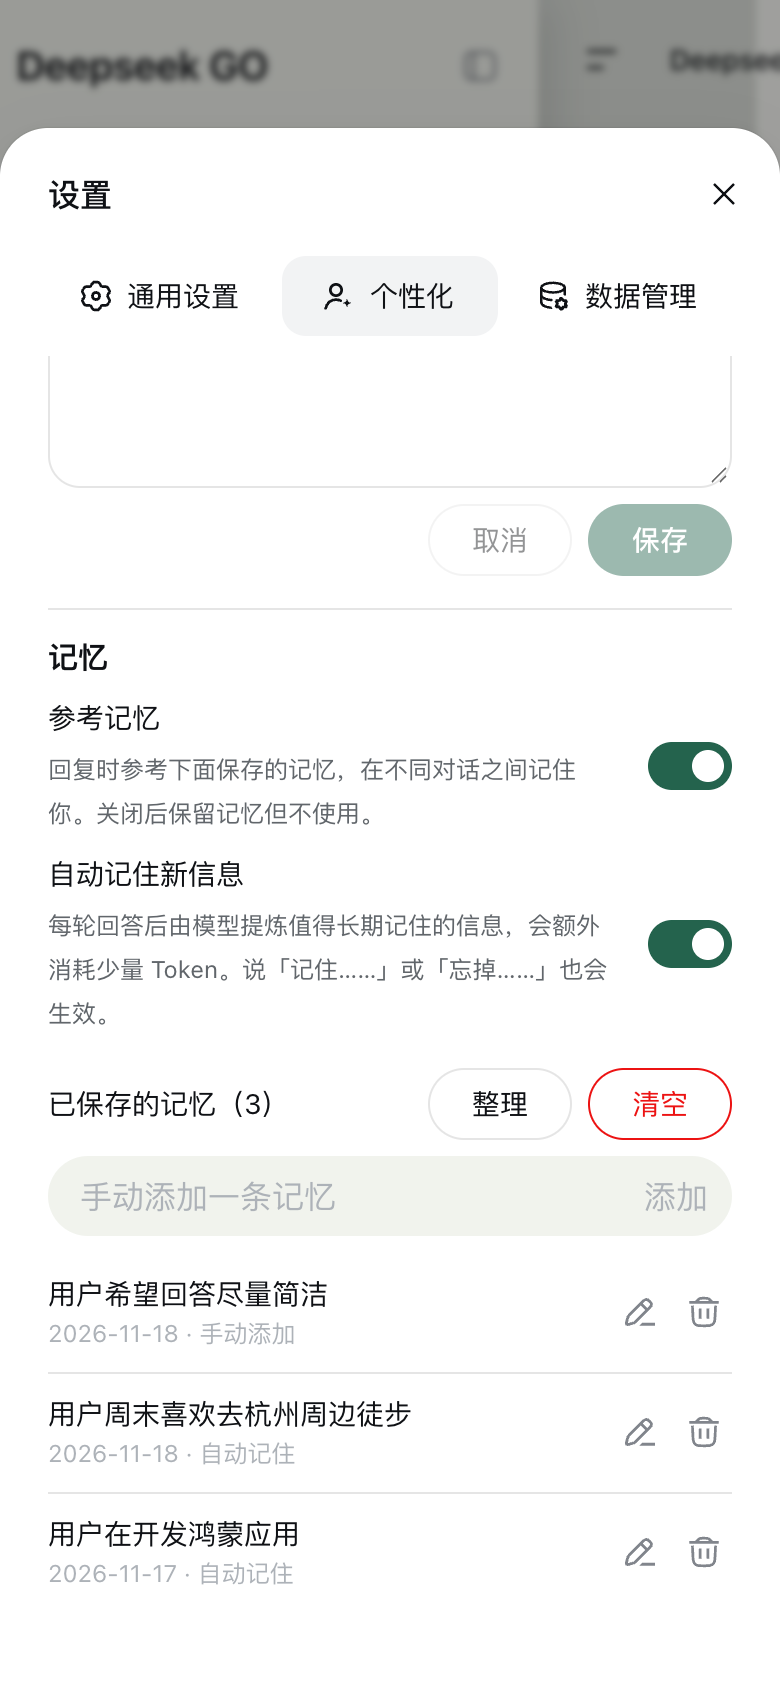
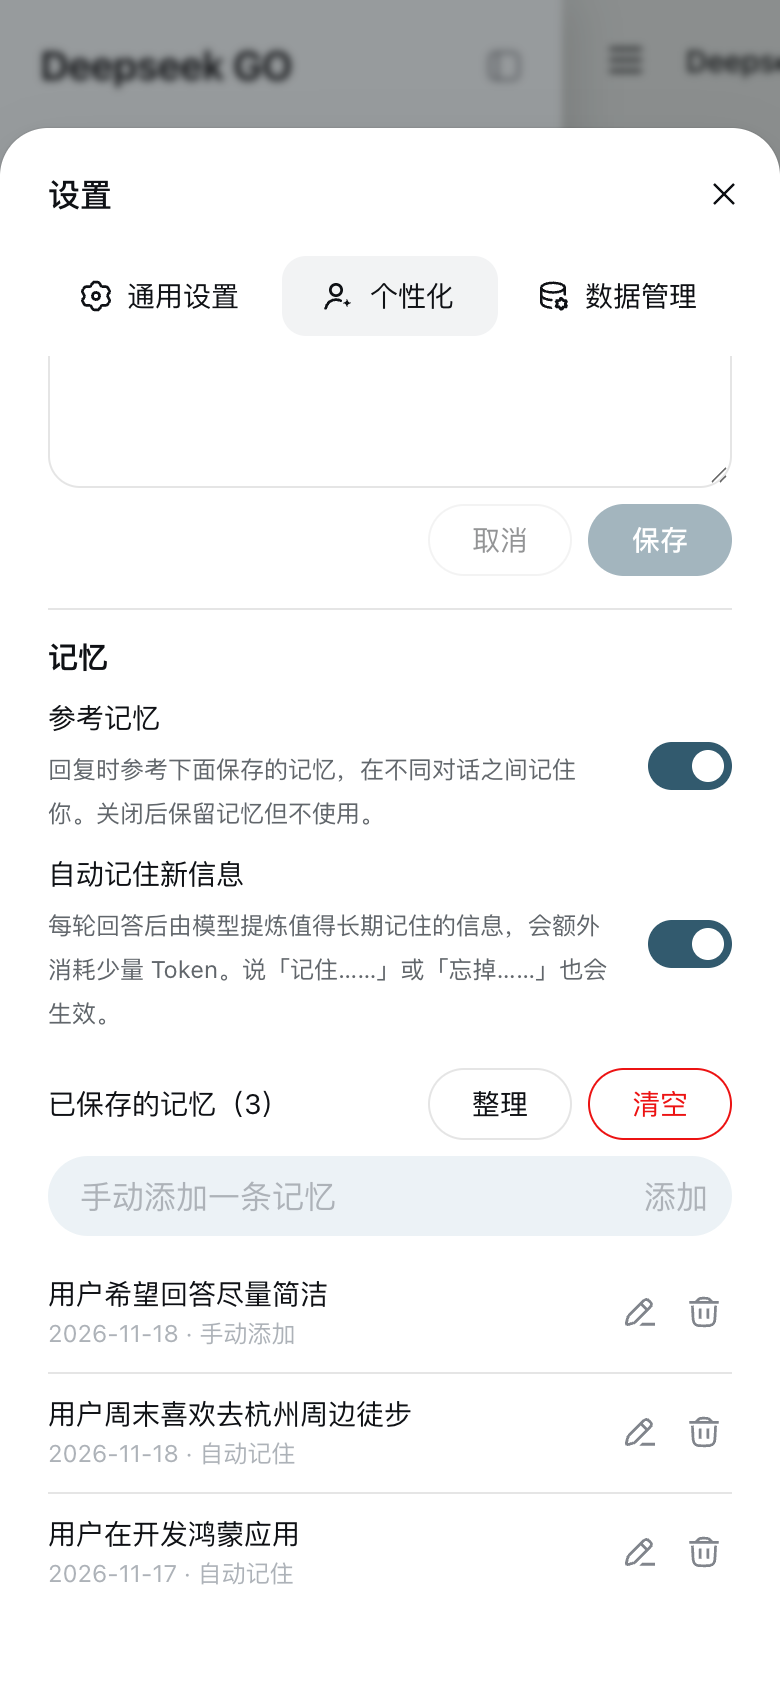
Deepseek GO 1.3.1 调整默认配色、深色背景、位置信息与设置分隔
- 默认主题色改为 #66ccff，松绿保留为预设；强调色始终由主题色派生
- 浅色和深色背景、深色输入区色调从主题色派生，原生底色、启动页和顶栏文字改为中性色
- 位置信息先选国家或地区（可不设置），选中国时再选省市，并补充用途说明
- 沉浸光感与回答完成通知开关沿用设置单元格的间距和分隔线
- README 截图按新配色重新生成

已通过 pnpm type/lint/build:harmony、ArkTS Release 编译和浏览器回归；真机深色观感待验证。

diff --git a/chat-demo-main/src/components/settings/SettingsDialog.tsx b/chat-demo-main/src/components/settings/SettingsDialog.tsx
@@ -26,7 +26,6 @@ import {
 } from '../../services/harmony.js'
 import { regionCodes, getRegionName, provinces } from '../../services/location.js'
 import {
-  isChineseBrowser,
   setImmersiveLight,
   setReplyNotify,
   setLocale,
@@ -253,11 +252,26 @@ const LocationSetting = () => {
   return (
     <SettingCell
       label={t('settingsLocation')}
+      description={t('settingsLocationDescription')}
       status={null}
       className={styles.locationCell}
       action={
         <div className={styles.locationSelectors}>
-          {isChineseBrowser() ? (
+          {/* 先选国家或地区，海外用户只需这一级；选中国时再细化到省市。 */}
+          <Select
+            ariaLabel={t('settingsLocationRegion')}
+            className={styles.regionSelect}
+            value={location?.region ?? ''}
+            placeholder={t('settingsLocationRegion')}
+            options={[
+              { value: '', label: t('settingsLocationNone') },
+              ...regionCodes
+                .map((code) => ({ value: code, label: getRegionName(code, locale) }))
+                .sort((a, b) => a.label.localeCompare(b.label, locale)),
+            ]}
+            onChange={(value) => setLocation(value ? { region: value } : null)}
+          />
+          {location?.region === 'CN' ? (
             <>
               <Select
                 ariaLabel={t('settingsLocationProvince')}
@@ -287,18 +301,7 @@ const LocationSetting = () => {
                 }}
               />
             </>
-          ) : (
-            <Select
-              ariaLabel={t('settingsLocationRegion')}
-              className={styles.regionSelect}
-              value={location?.region ?? ''}
-              placeholder={t('settingsLocationRegion')}
-              options={regionCodes
-                .map((code) => ({ value: code, label: getRegionName(code, locale) }))
-                .sort((a, b) => a.label.localeCompare(b.label, locale))}
-              onChange={(value) => setLocation({ region: value })}
-            />
-          )}
+          ) : null}
         </div>
       }
     />
@@ -434,7 +437,7 @@ const ImmersiveLightSetting = () => {
   const descriptionId = useId()
   const immersiveLight = useSettings((state) => state.immersiveLight)
   return (
-    <label className={styles.immersiveLight}>
+    <label className={clsx(styles.cell, styles.immersiveLight)}>
       <span>
         {t('immersiveLightTitle')}
         <span id={descriptionId} className={styles.immersiveLightDescription}>
@@ -460,7 +463,7 @@ const ReplyNotifySetting = () => {
   const descriptionId = useId()
   const replyNotify = useSettings((state) => state.replyNotify)
   return (
-    <label className={styles.immersiveLight}>
+    <label className={clsx(styles.cell, styles.immersiveLight)}>
       <span>
         {t('replyNotifyTitle')}
         <span id={descriptionId} className={styles.immersiveLightDescription}>

diff --git a/chat-demo-main/src/app/harmony.css b/chat-demo-main/src/app/harmony.css
@@ -63,11 +63,16 @@
   }
 
   .harmony-app[data-custom-accent][data-ds-dark-theme] {
-    --composer-tint: color-mix(in srgb, var(--user-accent) 17%, rgba(38, 47, 43, 0.66));
+    --composer-tint: color-mix(in srgb, var(--user-accent) 14%, rgba(36, 36, 36, 0.66));
+    --composer-highlight: color-mix(in srgb, var(--user-accent) 25%, rgba(255, 255, 255, 0.1));
+    --composer-rim: color-mix(in srgb, var(--user-accent) 25%, rgba(255, 255, 255, 0.14));
   }
 }
 
+/* 背景和浅色中性色只带一点主题色，深色模式不再固定偏绿 */
 .harmony-app[data-custom-accent] {
+  --dsw-static-neutral-bluish-50: color-mix(in srgb, var(--user-accent) 5%, #f3f4f5);
+  --dsw-alias-bg-base: color-mix(in srgb, var(--user-accent) 3%, #fafafa);
   --dsw-static-blue-50: color-mix(in srgb, var(--user-accent) 10%, white);
   --dsw-static-blue-100: color-mix(in srgb, var(--user-accent) 18%, white);
   --dsw-static-blue-300: color-mix(in srgb, var(--user-accent) 45%, white);
@@ -77,6 +82,8 @@
 }
 
 .harmony-app[data-custom-accent][data-ds-dark-theme] {
+  --dsw-static-neutral-bluish-50: color-mix(in srgb, var(--user-accent) 4%, #f2f2f2);
+  --dsw-alias-bg-base: color-mix(in srgb, var(--user-accent) 5%, #141414);
   --dsw-static-blue-400: color-mix(in srgb, var(--user-accent) 48%, white);
   --dsw-static-blue-600: color-mix(in srgb, var(--user-accent) 60%, #303030);
   --dsw-static-blue-800: color-mix(in srgb, var(--user-accent) 22%, #1b1b1b);

diff --git a/chat-demo-main/src/services/settings.ts b/chat-demo-main/src/services/settings.ts
@@ -74,15 +74,8 @@ const initialLocale = (): Locale => {
 
 const initialLocation = (): UserLocation | null => {
   try {
-    const location = normalizeLocation(JSON.parse(read(KEYS.location) ?? 'null'))
-    if (!location) {
-      return null
-    }
-    return isChineseBrowser()
-      ? location.region === 'CN' && location.province
-        ? location
-        : null
-      : { region: location.region }
+    // 任何语言的用户都可以选择任意国家或地区，只有中国需要细化到省市。
+    return normalizeLocation(JSON.parse(read(KEYS.location) ?? 'null'))
   } catch {
     return null
   }
@@ -93,6 +86,9 @@ const initialThemePreference = (): ThemePreference => {
   const saved = read(KEYS.themePreference)
   return saved === 'light' || saved === 'dark' ? saved : 'system'
 }
+
+/** 鸿蒙版默认主题色；未选择过主题色时使用 */
+export const DEFAULT_ACCENT = '#66ccff'
 
 export const normalizeAccentColor = (value: string): string | null => {
   const color = value.trim().replace(/^#/, '')

diff --git a/chat-demo-main/src/app/theme.ts b/chat-demo-main/src/app/theme.ts
@@ -1,5 +1,5 @@
 import { useSyncExternalStore } from 'react'
-import { useSettings, type ThemePreference } from '../services/settings.js'
+import { DEFAULT_ACCENT, useSettings, type ThemePreference } from '../services/settings.js'
 
 export type Theme = 'light' | 'dark'
 
@@ -60,14 +60,11 @@ const syncTheme = () => {
   }
 }
 
+/** 鸿蒙版的强调色、浅色和深色背景都从主题色派生；未选择时使用默认的 #66ccff。 */
 const syncAccent = (color: string | null) => {
   const body = document.body
-  body.toggleAttribute('data-custom-accent', color !== null)
-  if (color) {
-    body.style.setProperty('--user-accent', color)
-  } else {
-    body.style.removeProperty('--user-accent')
-  }
+  body.toggleAttribute('data-custom-accent', true)
+  body.style.setProperty('--user-accent', color ?? DEFAULT_ACCENT)
 }
 
 /** 首屏渲染前同步应用一次，之后随主题设置与系统深浅色变化更新 */

diff --git a/chat-demo-main/src/i18n/en.ts b/chat-demo-main/src/i18n/en.ts
@@ -94,6 +94,9 @@ export const en = {
   settingsTtsVoiceStella: 'Stella (female)',
   settingsTtsVoiceTide: 'Tide (male)',
   settingsLocation: 'Location',
+  settingsLocationNone: 'Not set',
+  settingsLocationDescription:
+    'Tells DeepSeek your country or region with each message, for weather, travel, and local questions. Only the place name is sent; GPS isn’t used.',
   settingsLocationProvince: 'Select province/region',
   settingsLocationCity: 'Select city',
   settingsLocationRegion: 'Select country or region',
@@ -104,7 +107,8 @@ export const en = {
   avatarMenuSettingsDialogThemeSelectDarkOption: 'Dark',
   accentTitle: 'Accent color',
   accentPresets: 'Accent presets',
-  accentDefault: 'Default pine green',
+  accentDefault: 'Default sky blue',
+  accentGreen: 'Pine green',
   accentBlue: 'Ocean blue',
   accentPurple: 'Berry purple',
   accentCoral: 'Coral',

diff --git a/chat-demo-main/src/i18n/zh.ts b/chat-demo-main/src/i18n/zh.ts
@@ -89,6 +89,9 @@ export const zh = {
   settingsTtsVoiceStella: '海星（女声）',
   settingsTtsVoiceTide: '暗潮（男声）',
   settingsLocation: '位置信息',
+  settingsLocationNone: '不设置',
+  settingsLocationDescription:
+    '随消息告诉 DeepSeek 你所在的国家或地区，用于天气、出行和本地推荐等问题。只发送地名，不使用定位。',
   settingsLocationProvince: '请选择省份/地区',
   settingsLocationCity: '请选择市',
   settingsLocationRegion: '请选择国家或地区',
@@ -99,7 +102,8 @@ export const zh = {
   avatarMenuSettingsDialogThemeSelectDarkOption: '深色',
   accentTitle: '主题颜色',
   accentPresets: '预设主题颜色',
-  accentDefault: '默认松绿',
+  accentDefault: '默认天蓝',
+  accentGreen: '松绿',
   accentBlue: '海蓝',
   accentPurple: '莓紫',
   accentCoral: '珊瑚红',

diff --git a/chat-demo-main/src/components/settings/AccentSetting.tsx b/chat-demo-main/src/components/settings/AccentSetting.tsx
@@ -1,13 +1,19 @@
 import { useState } from 'react'
 import { useTranslate } from '../../i18n/index.js'
-import { normalizeAccentColor, setAccentColor, useSettings } from '../../services/settings.js'
+import {
+  DEFAULT_ACCENT,
+  normalizeAccentColor,
+  setAccentColor,
+  useSettings,
+} from '../../services/settings.js'
 import { Button } from '../base/Button.js'
 import styles from './AccentSetting.module.css'
 
-const defaultColor = '#24634d'
-const presets = [null, '#2869bc', '#7449ad', '#ad4836', '#647584'] as const
+const defaultColor = DEFAULT_ACCENT
+const presets = [null, '#24634d', '#2869bc', '#7449ad', '#ad4836', '#647584'] as const
 const labels = [
   'accentDefault',
+  'accentGreen',
   'accentBlue',
   'accentPurple',
   'accentCoral',

diff --git a/chat-demo-main/src/components/settings/Settings.module.css b/chat-demo-main/src/components/settings/Settings.module.css
@@ -119,7 +119,7 @@
 
 .locationSelectors {
   display: flex;
-  flex-wrap: nowrap;
+  flex-wrap: wrap;
   align-items: flex-start;
   justify-content: flex-end;
   gap: 16px;
@@ -144,6 +144,11 @@
 
 .regionSelect {
   max-width: min(285px, 100%);
+}
+
+/* 开关行沿用设置单元格的间距和分隔线，与相邻设置项分开 */
+.cell.immersiveLight {
+  padding: 12px 0;
 }
 
 .theme {
@@ -409,6 +414,11 @@
   .locationSelectors {
     width: 100%;
     gap: 12px;
+  }
+
+  .regionSelect {
+    flex: 1 1 100%;
+    max-width: none;
   }
 
   .provinceSelect,

diff --git a/HANDOFF.md b/HANDOFF.md
@@ -2,7 +2,7 @@
 
 ## 工作区
 
-- 当前源码为 1.3.0，版本代码为 `1000010`，新增无痕对话、后台生成与完成通知，并做了返回手势、系统字体、2in1 键鼠等适配，见「1.3.0 无痕对话与鸿蒙适配」。1.2.1 修复宽屏居中和侧栏上下断开，见「1.2.1 宽屏修复」。1.1.0 新增系统语音输入、本机识字、接收系统分享和经系统文件管理器导出，见下方「鸿蒙独有功能」；1.2.0 新增自定义指令和跨对话记忆，见「个性化与记忆」。接手时用 `git status --short` 和 `git log -1 --oneline` 查看源码状态。
+- 当前源码为 1.3.1，版本代码为 `1000011`，调整默认配色、深色背景、位置信息和设置分隔，见「1.3.1 配色与设置」。1.3.0 版本代码为 `1000010`，新增无痕对话、后台生成与完成通知，并做了返回手势、系统字体、2in1 键鼠等适配，见「1.3.0 无痕对话与鸿蒙适配」。1.2.1 修复宽屏居中和侧栏上下断开，见「1.2.1 宽屏修复」。1.1.0 新增系统语音输入、本机识字、接收系统分享和经系统文件管理器导出，见下方「鸿蒙独有功能」；1.2.0 新增自定义指令和跨对话记忆，见「个性化与记忆」。接手时用 `git status --short` 和 `git log -1 --oneline` 查看源码状态。
 - 最近一次交付是 `HAPS/Deepseek-GO-1.3.0-unsigned.hap`，版本代码为 `1000010`，已发布到 GitHub Releases 的 `v1.3.0`。只有用户明确要求时才打包当前源码版本。
 - 远端仓库是 `origin`（GitHub `APXS114514/DeepSeekGo-Harmony`，分支 `main`）。推送身份和 SSH 配置见 [`AGENTS.md`](AGENTS.md#版本与提交)。仓库只收源码、配置、文档和图标。依赖、构建产物、`HAPS/`、签名材料，以及上游遗留的 `chat-demo-main/.github/` 和过期的 `*.module.css.d.ts`，都由根目录和 `harmony/` 的 `.gitignore` 排除。这些文件在本机仍然保留，新克隆的仓库不需要它们也能正常构建。README 截图在 `docs/screenshots/`，用 DSH 工作区 `Game-Miscellaneous/_deepseek-go-readme-shots/readme-shots.mjs` 生成：加载 `pnpm build:harmony` 的产物，模拟接口和设备消息通道，参数是输出目录。
 - 保持覆盖安装所需的包名 `com.pocketchat.deepseek`。用户在手机上填写 Key，由 ArkWeb 消息通道交给系统 Asset Store。测试使用模拟 Key 和回复。
@@ -73,6 +73,14 @@
 - **无痕对话**：会话带 `ephemeral: true`，只存在于 `sessionCache`，不进入 `sessions` 列表和导出，`persist` 直接跳过。附件原件通过 `db.keepFilesInMemory` 放在内存里，`loadFile` 优先读取内存。系统提示词保留自定义指令，但不附带记忆，也不触发记忆提炼。`newChat`、`selectSession` 离开时会调用 `discardEphemeral` 停止生成、移出缓存、释放附件和草稿；打开已保存的对话即退出无痕模式。入口在欢迎页问候语下方，会话页顶部有说明条，原生顶栏标题显示「无痕对话」。
 - **后台生成与完成通知**：网页通过 window-ui 的 `generating` 告诉原生是否有回答在生成。[`BackgroundReply.ets`](harmony/entry/src/main/ets/services/BackgroundReply.ets) 在 `onPageHide` 时若仍在生成，就申请短时任务 `requestSuspendDelay`；生成结束、回到前台或到期回调时取消。每条回答完成后网页发送 `reply-done`（会话 id、标题、去掉 Markdown 的摘要；无痕对话只发「回答已生成完成」），原生只在后台时发布通知，WantAgent 带 `pocketChatSessionId`。点击通知后 `EntryAbility.onNewWant` 写入 AppStorage，网页收到 `open-session` 后等会话列表加载再打开。回到前台时清除通知。首次开始生成时请求一次通知授权；设置 → 通用设置 → 回答完成通知（默认开启）在打开时会再次请求，被拒绝时给出提示。
 
+## 1.3.1 配色与设置
+
+- **默认主题色**：`settings.ts` 的 `DEFAULT_ACCENT = '#66ccff'`。`theme.ts` 的 `syncAccent` 始终设置 `data-custom-accent`，没有保存过主题色时使用默认值，因此所有强调色都走 `harmony.css` 中由 `--user-accent` 派生的规则。预设依次为默认天蓝、松绿 `#24634d`、海蓝、莓紫、珊瑚红、岩灰，点「默认」仍会清空保存值。
+- **背景跟随主题色**：`harmony.css` 在 `[data-custom-accent]` 下用 `color-mix` 派生中性色。浅色背景是主题色 3% 混入 `#fafafa`，深色背景是主题色 5% 混入 `#141414`，深色正文色是主题色 4% 混入 `#f2f2f2`。深色输入区的色调、高光和描边也改为从主题色派生，旧的偏绿 rgba 值不再生效。原生侧的 ArkWeb 底色、启动页背景、顶栏和系统栏文字改为中性的 `#FAFAFA`、`#151515`、`#1A1A1A`、`#F2F2F2`。
+- **位置信息**：不再按浏览器语言区分。设置里先选国家或地区（第一项是「不设置」），只有选中国时才出现省、市两级；`initialLocation` 直接读取保存值并校验。说明文案写明：它随消息作为最新信息的一部分发给模型，用于天气、出行和本地问题，只发送地名，不使用定位。
+- **设置分隔**：沉浸光感和回答完成通知两个开关行加上 `styles.cell`，与其他设置项使用相同的 12px 上下内边距和分隔线。
+- 旧回归脚本中「默认松绿」按钮改名为「默认天蓝」，见 `*.v131.mjs`。README 截图已用新配色重新生成。
+
 ## 1.0.x 的界面改动
 
 - **顶栏**。上一版的蓝圈来自原生按钮使用系统材质时采用的默认填充色。1.0.5 的 `ChatHeader.ets` 使用透明底的 ArkUI 文本样式按钮。
@@ -91,6 +99,7 @@
 - 收到生成 HAP Release 的请求后，从 `harmony/AppScope/app.json5` 读取当前版本。先构建 ArkWeb 资源，再在 `harmony/` 下用 HarmonyOS 26.0.0 SDK 执行 `hvigorw assembleHap --mode module -p product=default -p module=entry@default -p buildMode=release --no-daemon`。核对构建日志的未签名状态及包内 `module.json` 的版本、包名和最低 API。比对图标、Logo 和打包的网页资源，最后复制到 `HAPS/` 并记录 SHA-256。
 - 1.3.0 已通过 `pnpm type`、`pnpm lint`、`pnpm build:harmony`、改动文件的 `oxfmt`、改动的 ArkTS 文件通过 codelinter（无错误）和 ArkTS Release 编译；包内含 `configuration` 配置。回归脚本 `Game-Miscellaneous/_verify-deepseek-go-1.3/batch-1.3.mjs` 覆盖顶栏对齐、返回手势分层、字体缩放、键盘偏移时的安全区、无痕对话的创建与丢弃以及不发记忆、生成状态与完成通知内容、通知开关和授权拒绝、点击通知打开会话、2in1 快捷键提示与右键菜单。1.1、1.2 功能回归仍通过，motion、edit、brand-sider 用 `*.v13.mjs`（关闭自动记忆、键盘安全区改为 31px）通过。
 - 1.3.0 尚未真机验证：侧滑返回在各层的实际表现、ArkWeb `darkMode(Auto)` 是否让「跟随系统」生效、系统字体缩放和原生 fp 标题的一致性、平板键盘弹起时左上角是否仍与状态栏重叠、短时任务能否让 ArkWeb 在后台继续接收流式回复、通知授权弹窗与点击回到对话、2in1 快捷键是否与系统冲突。
+- 1.3.1 已通过 `pnpm type`、`pnpm lint`、`pnpm build:harmony`、改动文件的 `oxfmt` 和 ArkTS Release 编译。`Game-Miscellaneous/_verify-deepseek-go-1.3/batch-1.3.1.mjs` 覆盖：默认主题色、浅色和深色背景偏向主题色、换成莓紫后深色背景随之变化、开关行的内边距与分隔线、位置信息「不设置 → 日本 → 中国/浙江省/丽水市 → 不设置」、地名随消息发送，以及英文界面直接选国家。1.3、1.2、1.1 回归和 edit 回归仍通过，motion、brand-sider 使用 `*.v131.mjs` 通过。真机待验证深色模式下的整体观感，以及启动页到网页首帧的颜色衔接。暂未打包 1.3.1 HAP。
[2 lines of base64/hex data omitted]
 - 1.2.1 已通过 `pnpm lint`、`pnpm build:harmony`、`WindowInsets.ets` 的 codelinter 和 ArkTS 编译。浏览器探针确认侧栏覆盖整个窗口高度，内容位置不变；1.1、1.2 功能回归以及关闭自动记忆后的 motion、edit、brand-sider 回归都通过。挖孔改算上下避让的逻辑只能在真机验证：需要确认平板横屏时左右对称，挖孔不遮挡内容，以及顶部 inset 是否因此变大。

diff --git a/CHANGELOG.md b/CHANGELOG.md
@@ -1,5 +1,12 @@
 # Deepseek GO 更新日志
 
+## 1.3.1 — 配色与设置
+
+- 默认主题色改为天蓝 #66ccff，原来的松绿保留为可选预设。
+- 深色模式的背景和输入区跟随主题色，不再固定偏绿。
+- 位置信息可以选择任意国家或地区，选中国时再细化到省市，并说明了用途。
+- 设置中「沉浸光感」和「回答完成通知」之间增加间距和分隔线。
+
 ## 1.3.0 — 无痕对话与鸿蒙适配
 
 - 新增无痕对话：不保存记录，不读取也不更新记忆，离开后自动丢弃。
